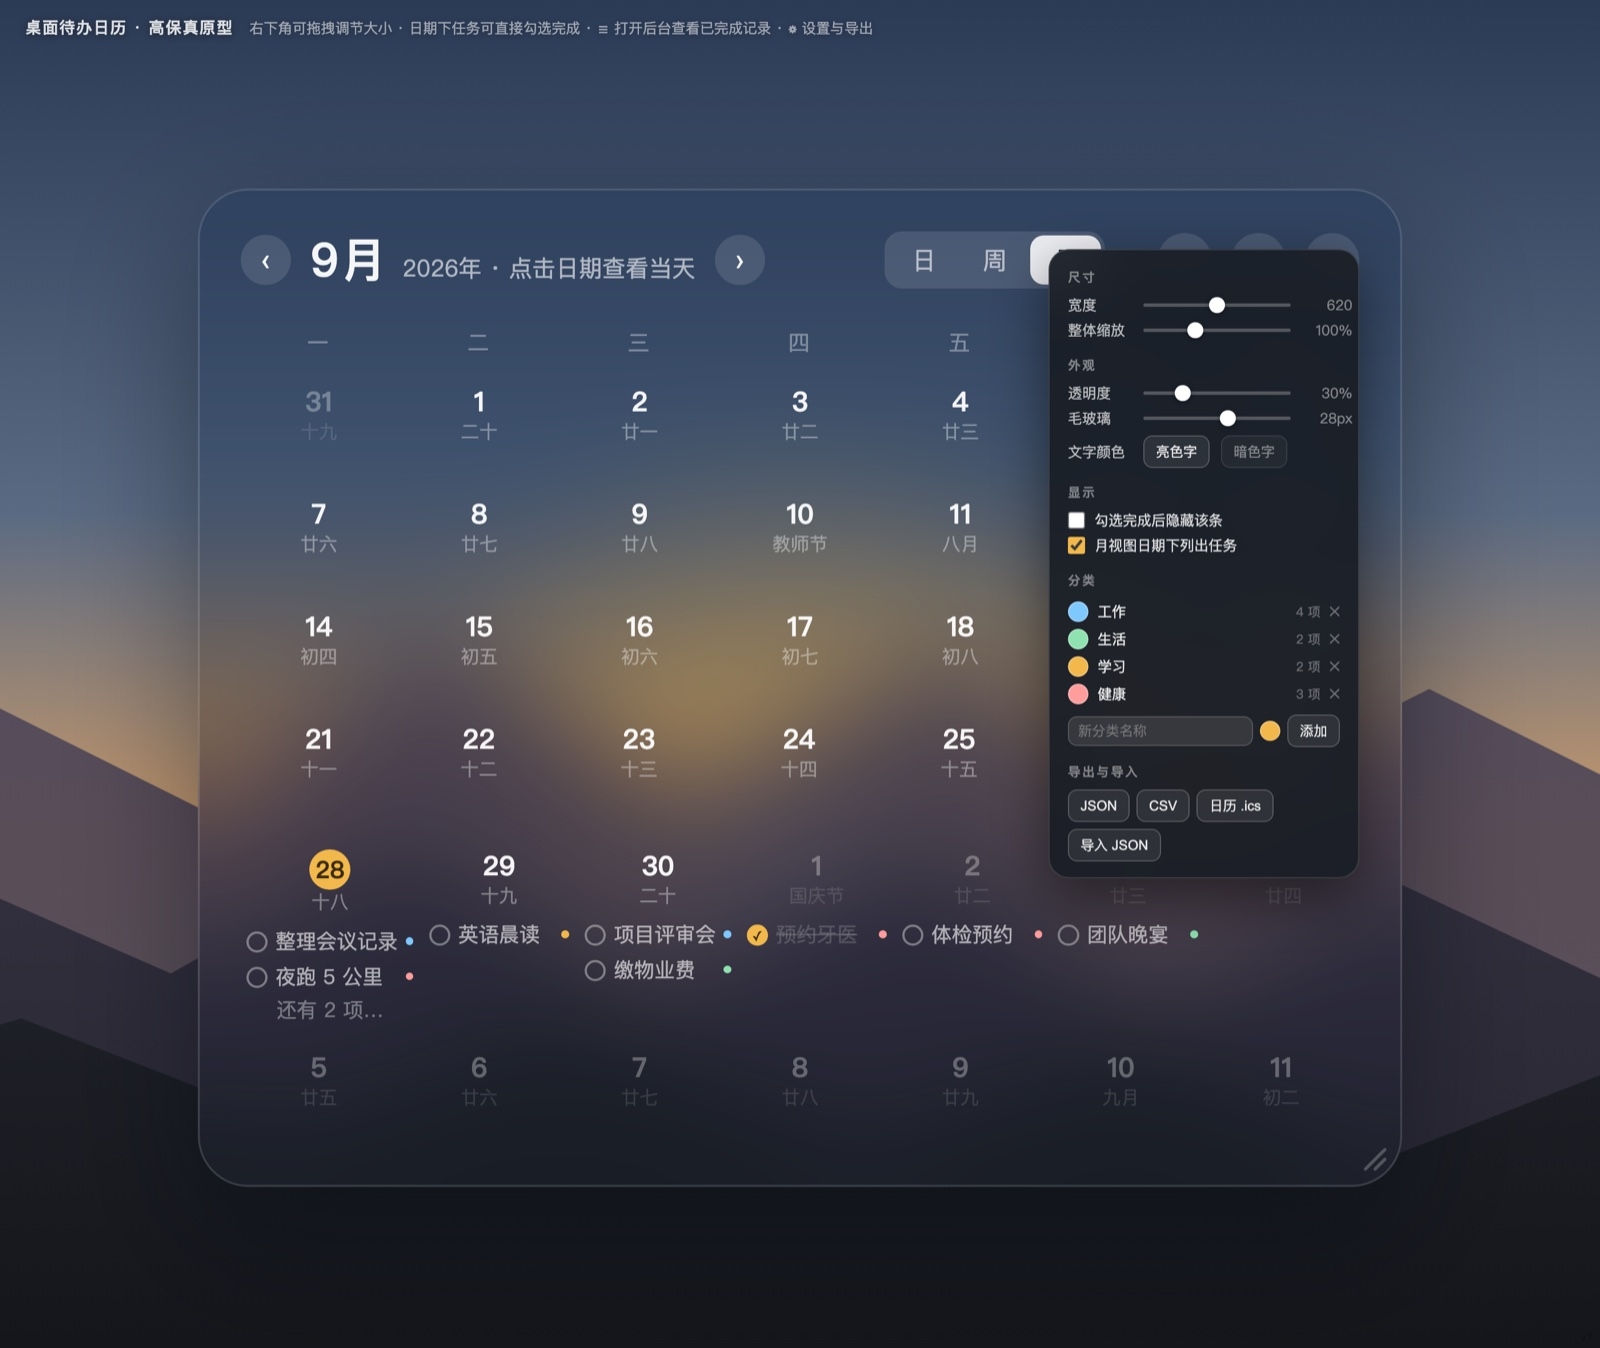
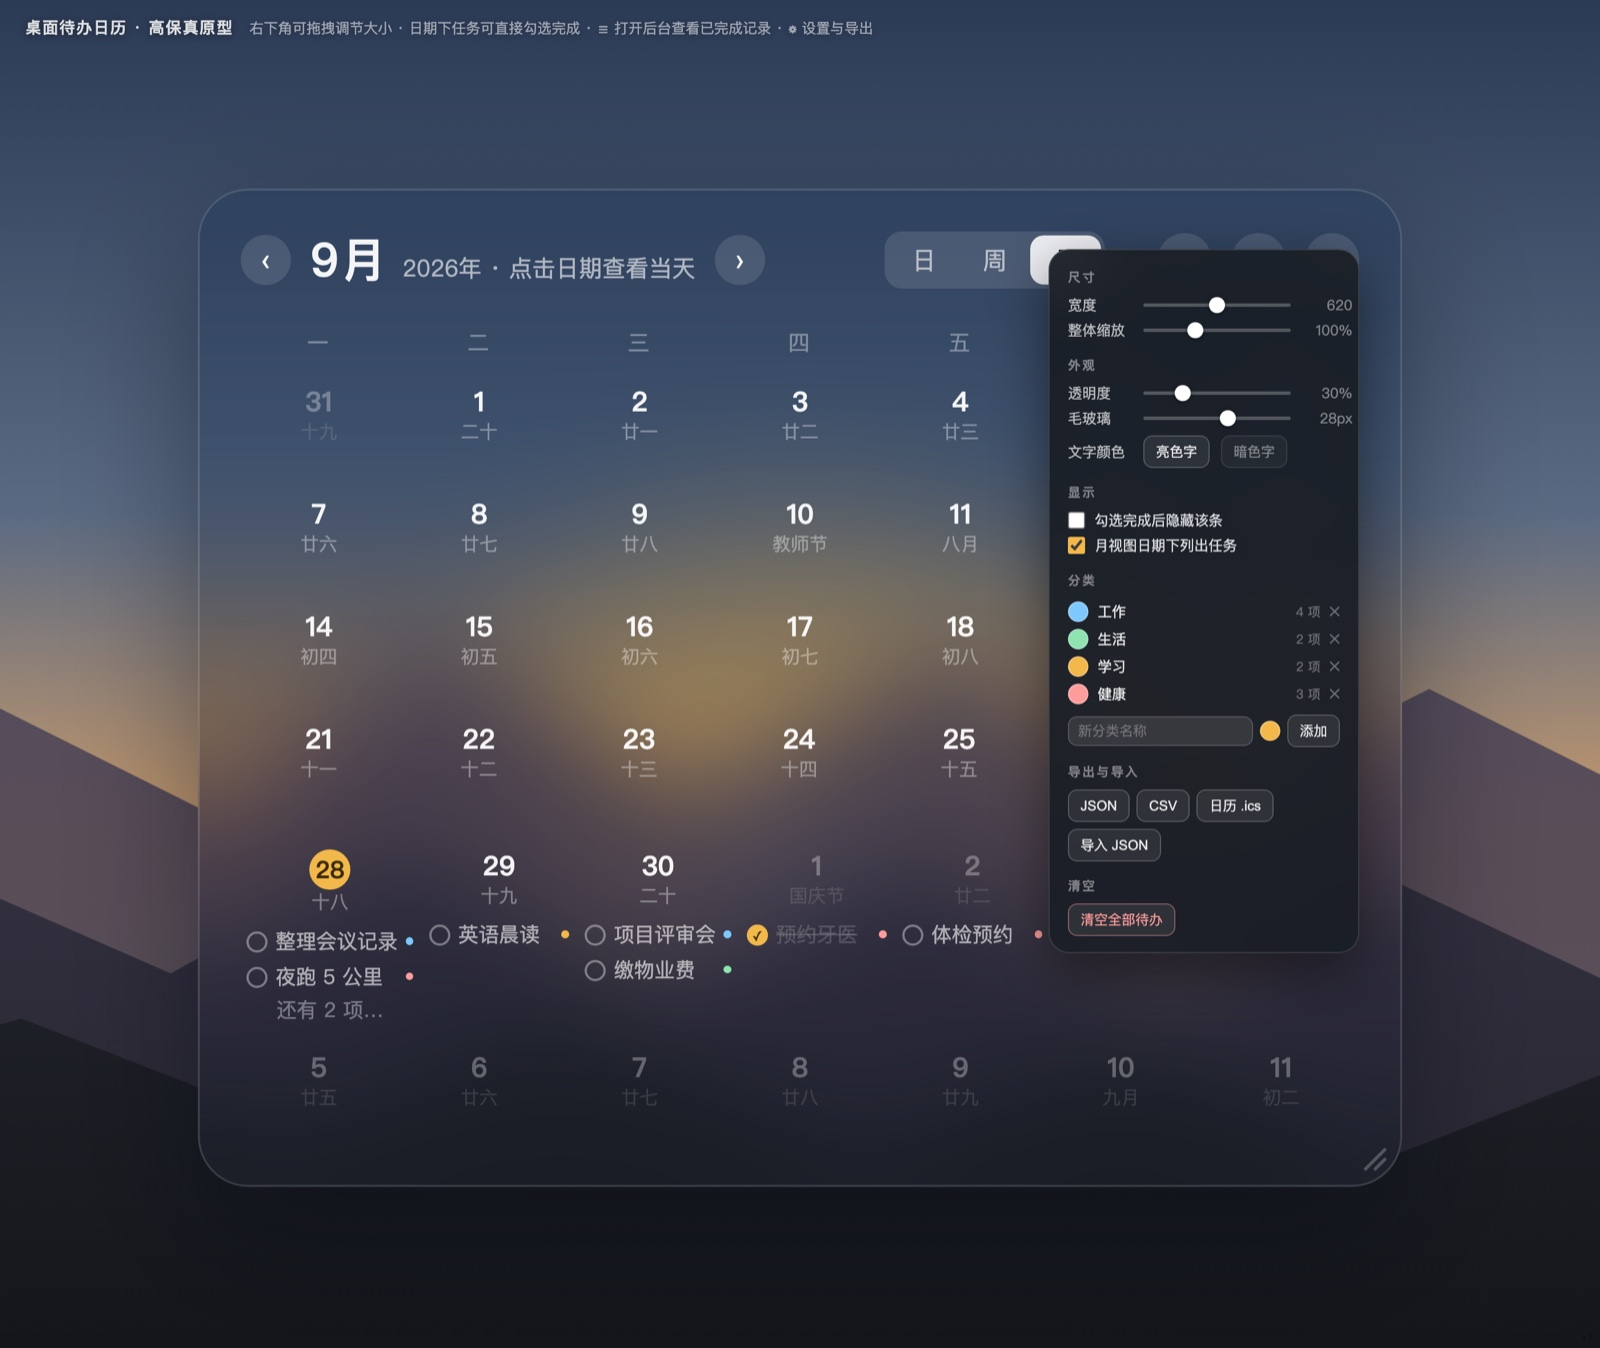
设置面板补上清空全部待办
内置演示数据装了就在，原来只能一条条点 ✕ 删。任何从仓库装起来的人
都会碰到这 11 条，缺一个批量清空的口子。设置面板加「清空全部待办」，
只清待办不清分类。

没有用 window.confirm：WKWebView 没设 WKUIDelegate 时它会被静默忽略、
恒定返回 false，在浏览器里试正常、装进 App 就点不动。改成按钮自身
两段式确认，第一下变「再点一次确认」，四秒内没再点自动退回。

实测：11 条 → 第一下仅预备不动数据 → 第二下清零 → 分类保留 4 个。

Changed region(s): [[0.6562, 0.6543, 0.8438, 0.7166]]

diff --git a/index.html b/index.html
@@ -228,6 +228,9 @@
     font-size:12px; cursor:pointer; transition:background .15s; white-space:nowrap;
   }
   .mini-btn:hover{ background:rgba(255,255,255,.18); }
+  .mini-btn.danger{ color:#ff9d9d; border-color:rgba(255,157,157,.42); }
+  .mini-btn.danger:hover{ background:rgba(255,120,110,.2); }
+  .mini-btn.danger.armed{ background:rgba(226,74,62,.9); border-color:transparent; color:#fff; }
   .switch{ display:flex; align-items:center; gap:8px; cursor:pointer; color:rgba(255,255,255,.85); }
   .switch input{ accent-color:var(--accent); width:15px; height:15px; }
   .cat-line{ display:flex; align-items:center; gap:8px; padding:3px 0; }
@@ -453,6 +456,11 @@
     <button class="mini-btn" id="exp-ics" data-page-node-id="kEaIVKW70teucTqt0LWeQl">日历 .ics</button>
     <button class="mini-btn" id="imp-json" data-page-node-id="uQ1mZ7rT4hKpWn2cLd8XvB">导入 JSON</button>
     <input type="file" id="imp-file" accept=".json,application/json" style="display:none">
+  </div>
+
+  <h4>清空</h4>
+  <div class="exp-row">
+    <button class="mini-btn danger" id="clear-all">清空全部待办</button>
   </div>
 </div>
 
@@ -1051,6 +1059,37 @@ $('imp-file').onchange = e => {
     e.target.value = '';
   };
   reader.readAsText(file);
+};
+
+/* ================= 清空 ================= */
+// 不用 window.confirm：WKWebView 没有设 WKUIDelegate 时，confirm 会被静默忽略、
+// 恒定返回 false。在浏览器里试是好的，装进 App 就变成「点了没反应」。
+// 改成按钮自身两段式确认：第一下变成「再点一次确认」，四秒内没再点就退回原样。
+const CLEAR_LABEL = '清空全部待办';
+let clearArmedAt = 0;
+function resetClearBtn(){
+  const b = $('clear-all');
+  if(!b) return;
+  b.textContent = CLEAR_LABEL;
+  b.classList.remove('armed');
+}
+$('clear-all').onclick = () => {
+  const btn = $('clear-all');
+  const now = Date.now();
+  if(now - clearArmedAt > 4000){
+    clearArmedAt = now;
+    btn.textContent = '再点一次确认';
+    btn.classList.add('armed');
+    setTimeout(() => { if(clearArmedAt === now){ clearArmedAt = 0; resetClearBtn(); } }, 4000);
+    return;
+  }
+  const n = S.todos.length;
+  S.todos = [];
+  S.hidden = [];
+  clearArmedAt = 0;
+  resetClearBtn();
+  save(); renderSettings(); renderBackstage(); render();
+  toast(n ? `已清空 ${n} 条待办` : '本来就是空的');
 };
 
 /* ================= 杂项 ================= */

diff --git a/README.md b/README.md
@@ -47,7 +47,7 @@ xattr -d com.apple.quarantine DeskCal.app
 | 勾选完成 | 点任务左侧的圆圈，或者点整行 |
 | 新增待办 | 右侧的 ＋ 按钮 |
 | 全部待办 | 右侧的 ☰ 按钮，可按全部 / 未完成 / 已完成筛选 |
-| 设置 | 右侧的 ⚙ 按钮，调尺寸、外观、显示、分类、导出与导入 |
+| 设置 | 右侧的 ⚙ 按钮，调尺寸、外观、显示、分类、导出与导入、清空 |
 | 移动位置 | 按住卡片主体拖动 |
 | 改大小 | 拖右下角的斜纹把手 |
 | 退出 | 菜单栏的日历图标，点退出 |
